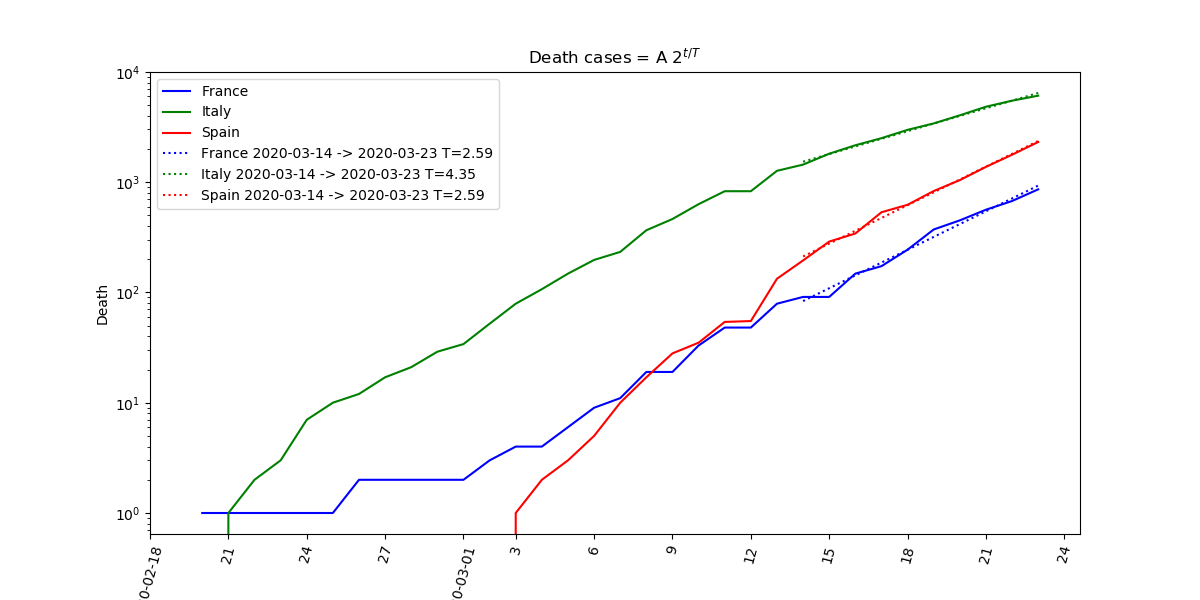
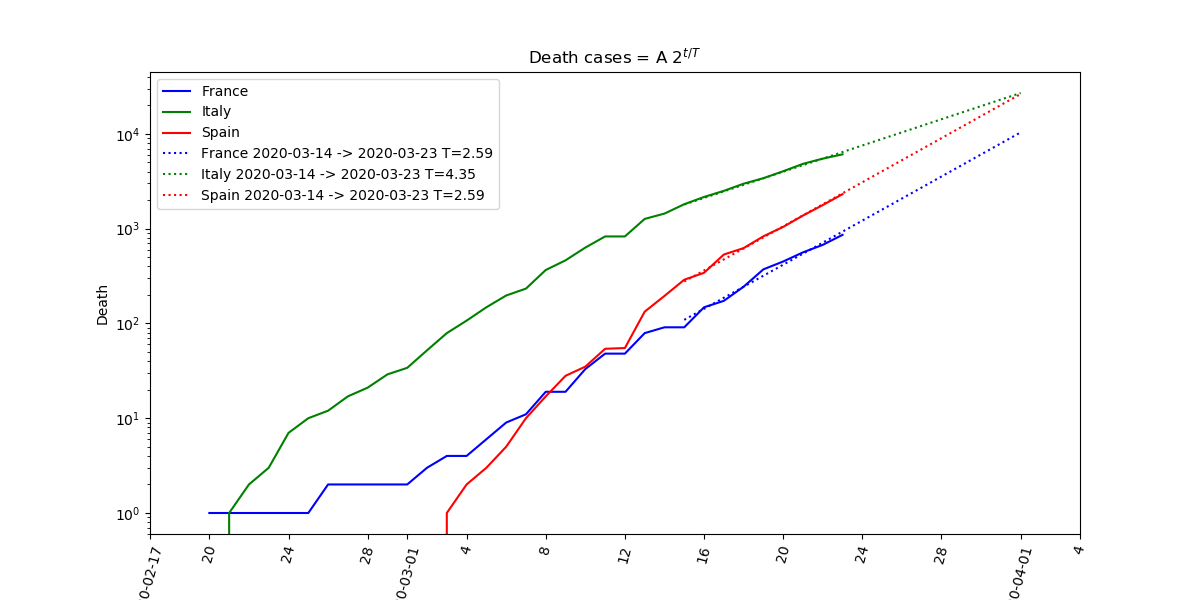
plot update

diff --git a/coronapy_key_plots.py b/coronapy_key_plots.py
@@ -65,7 +65,7 @@ subset = death.subset(names2, start="2020-02-20")
 fit_result = subset.subset(start=-10).fit('2') # fit the last 10 days
 
 axes = subset.plot()
-fit_result.plot_model(axes=axes)
+fit_result.plot_model(("2020-03-15", "2020-04-01"), axes=axes)
 axes.set(yscale='log', xlabel="Date", ylabel="Death", title = "Death cases = A $2^{t/T}$")
 save('death_fit', axes.figure)
 
